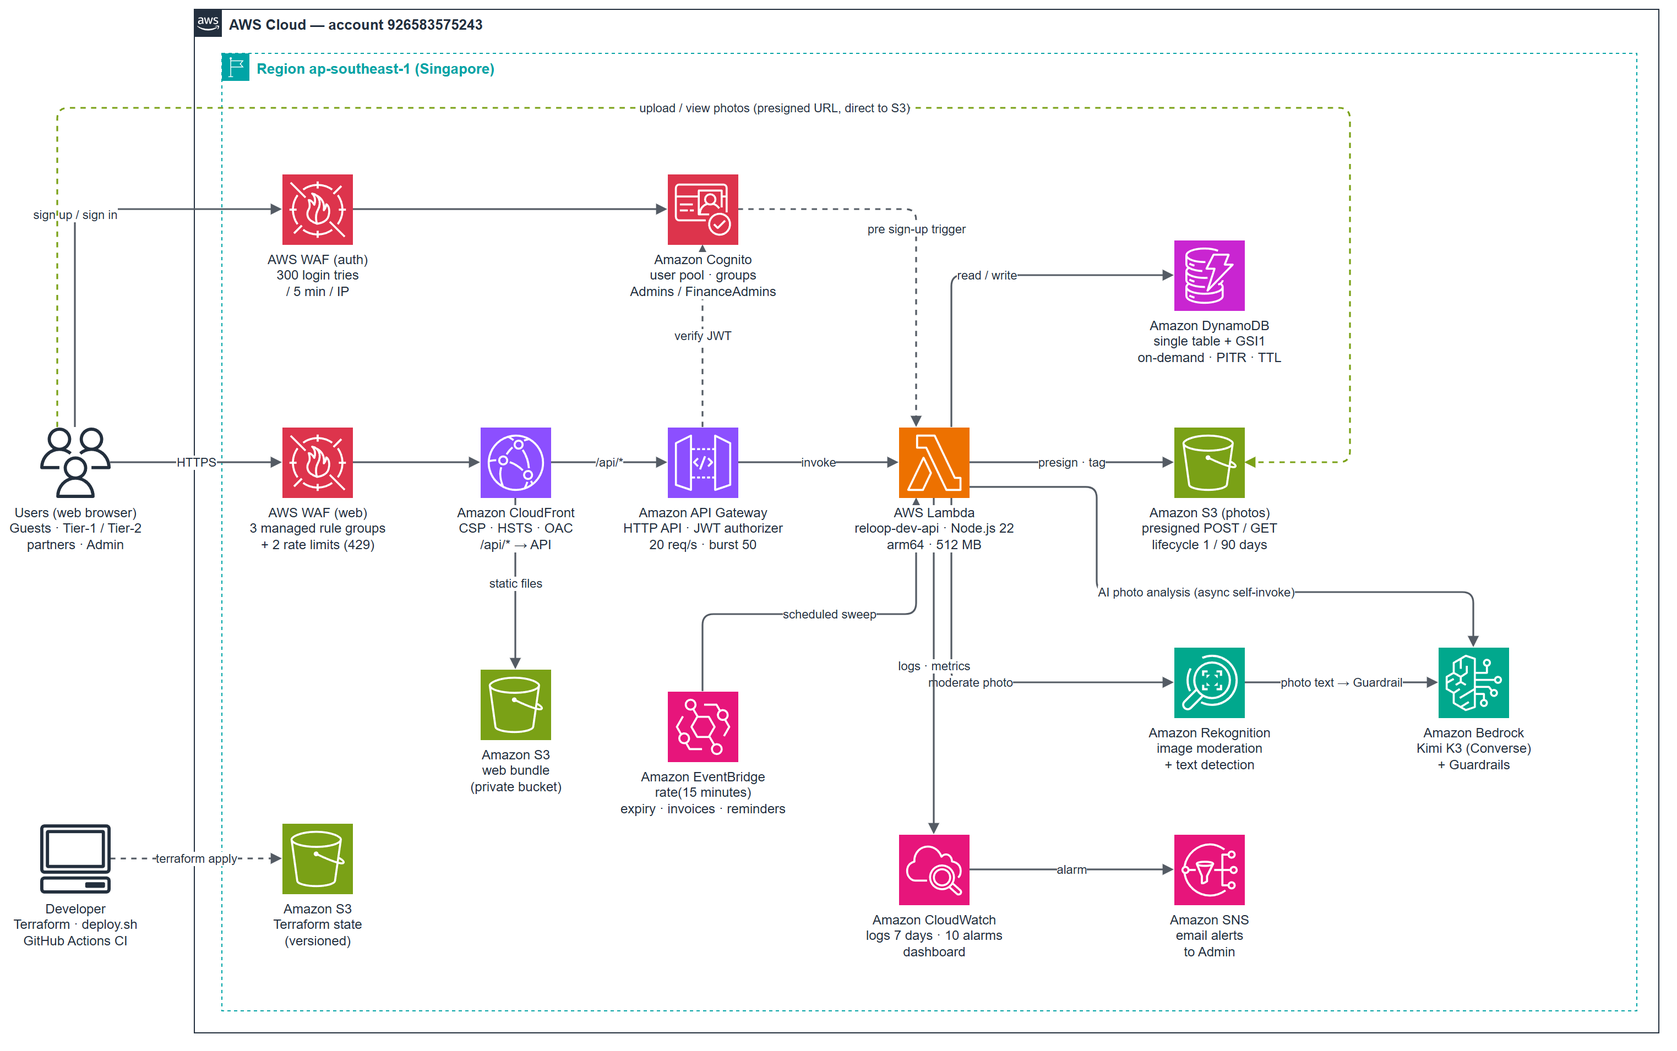
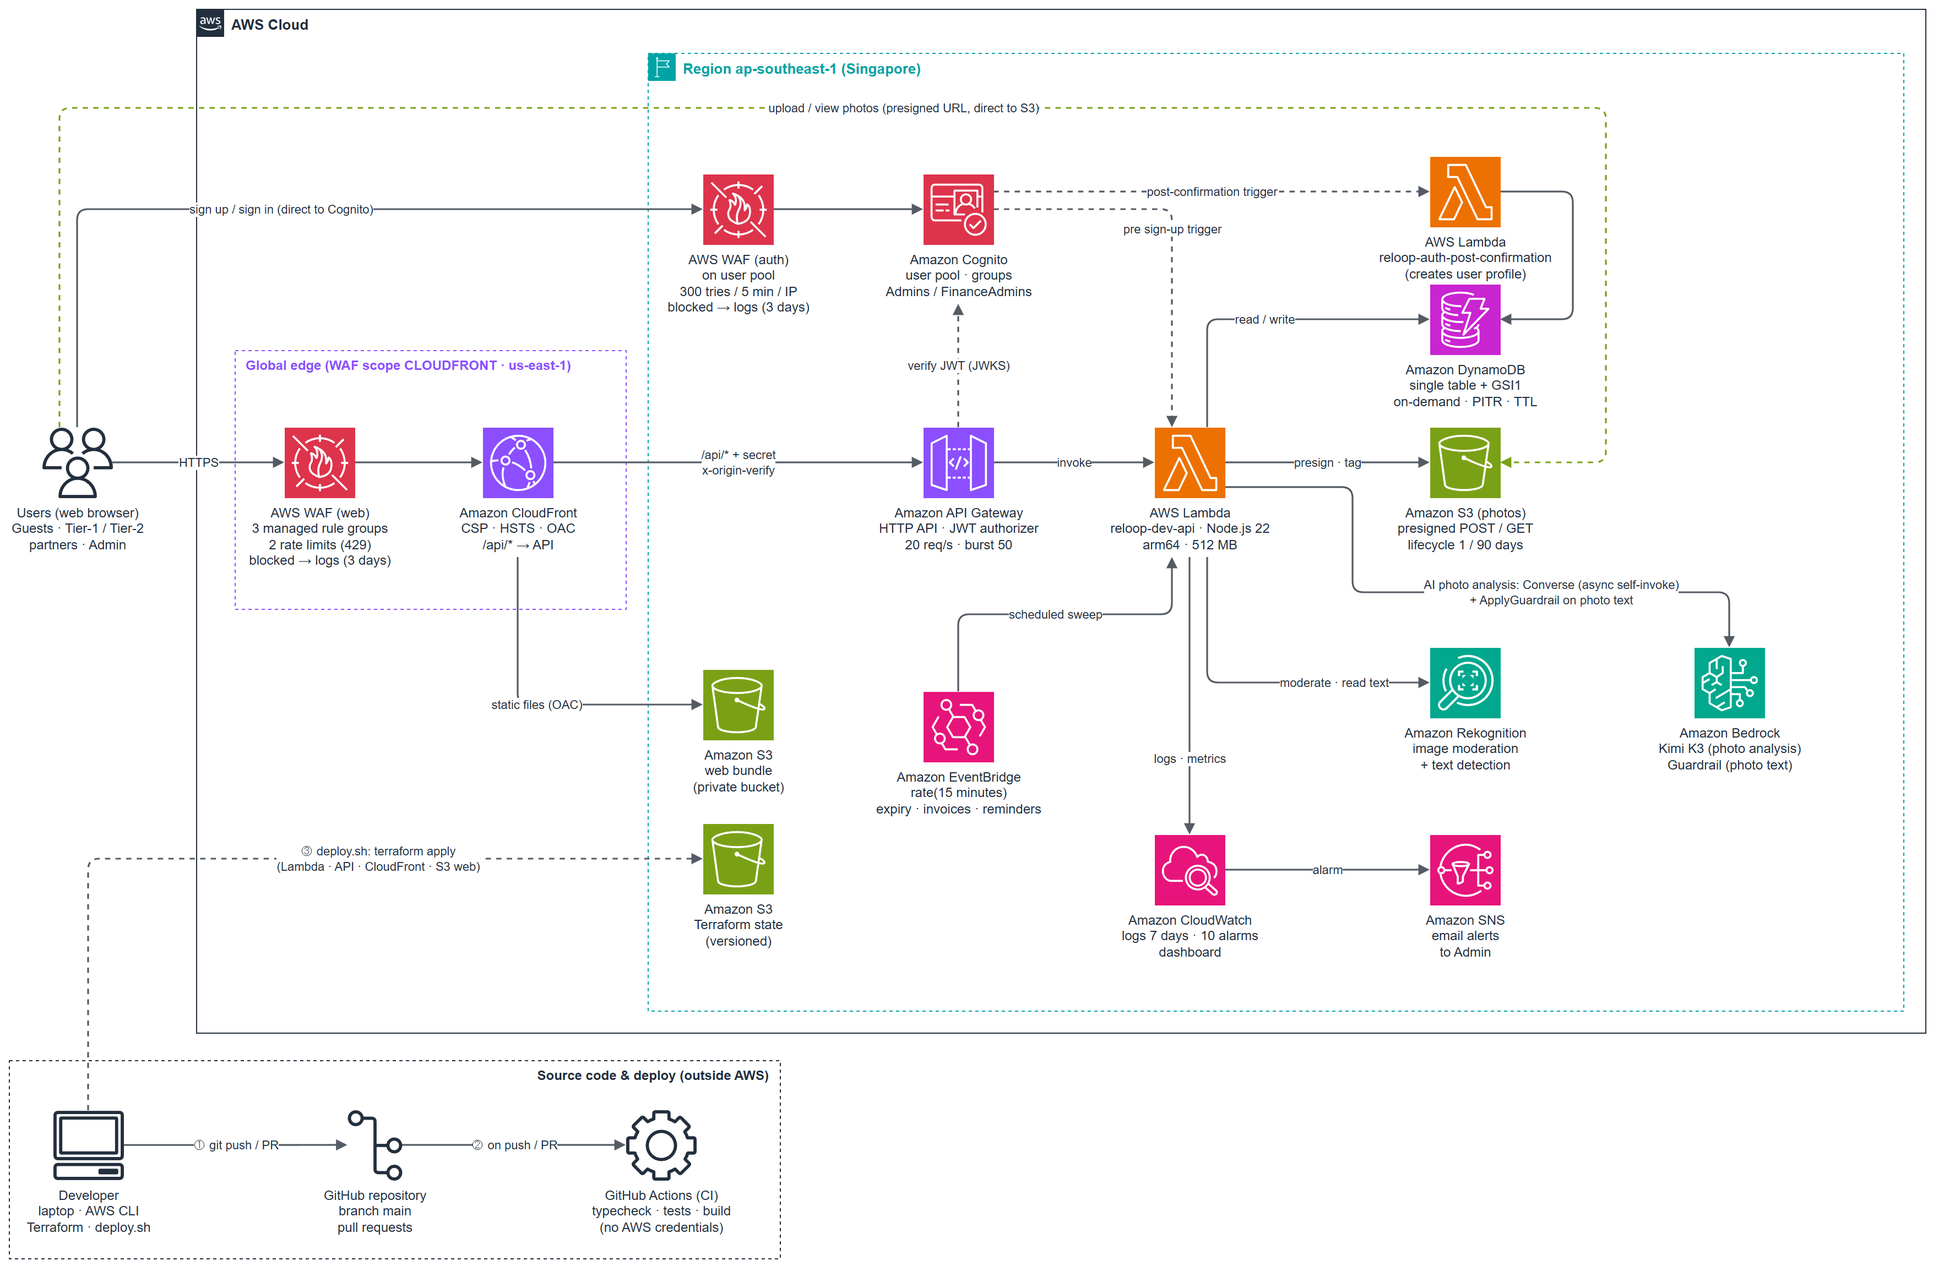
Proposal: new architecture diagrams (overview + detailed), CI/deploy flow, Cognito triggers, Bedrock Guardrail scope; add diagram scripts

diff --git a/diagram/make_architecture.py b/diagram/make_architecture.py
@@ -1,0 +1,217 @@
+"""Sinh sơ đồ kiến trúc ReLoop dạng draw.io (icon AWS chính thức, thư viện mxgraph.aws4).
+
+Chạy:     python diagram/make_architecture.py → static/images/2-Proposal/reloop-architecture.drawio (mở được bằng draw.io)
+Xuất PNG: node diagram/export_png.mjs        → static/images/2-Proposal/reloop-architecture.png (viewer draw.io trong Chrome headless)
+Số liệu trên sơ đồ lấy từ infra/*.tf ngày 2026-11-08 (bố cục sửa 2026-11-16: CloudFront/WAF web ra ngoài Region, thêm post-confirmation, x-origin-verify;
+2026-11-19: đường nối không cắt chữ dưới icon (exitDy/entryDy), Lambda gọi Bedrock trực tiếp (bỏ mũi tên Rekognition → Bedrock),
+bỏ số tài khoản, log WAF, khung Developer → GitHub → CI + đường deploy ③).
+"""
+import sys
+from pathlib import Path
+from xml.sax.saxutils import escape
+
+HERE = Path(__file__).parent.parent / 'static' / 'images' / '2-Proposal'  # nơi Hugo lấy ảnh
+# --simple: CÙNG bố cục, icon, đường nối; chỉ bớt chữ (dưới icon chỉ tên dịch vụ, đường nối không nhãn trừ số ① ② ③)
+# → reloop-architecture-simple.drawio, xuất PNG: node diagram/export_png.mjs reloop-architecture-simple
+SIMPLE = '--simple' in sys.argv
+NAME = 'reloop-architecture-simple' if SIMPLE else 'reloop-architecture'
+
+
+def pick(label: str, short: str | None) -> str:
+    """Bản gọn: dùng `short` nếu có, không thì dòng đầu (tên dịch vụ)."""
+    if not SIMPLE:
+        return label
+    return short or label.split('\n')[0]
+
+COLORS = {
+    'net': '#8C4FFF',  # Networking & Content Delivery
+    'compute': '#ED7100',
+    'db': '#C925D1',
+    'storage': '#7AA116',
+    'security': '#DD344C',
+    'ml': '#01A88D',
+    'mgmt': '#E7157B',  # Management & Governance / Application Integration
+}
+
+cells: list[str] = []
+_id = [10]
+
+
+def nid() -> str:
+    _id[0] += 1
+    return f'n{_id[0]}'
+
+
+def text(label: str) -> str:
+    """Nhãn nhiều dòng: draw.io (html=1) cần <br> thay cho xuống dòng."""
+    return escape(label.replace('\n', '<br>'))
+
+
+def node(x, y, style, label, size=64):
+    i = nid()
+    cells.append(
+        f'<mxCell id="{i}" value="{text(label)}" style="{style}" vertex="1" parent="1">'
+        f'<mxGeometry x="{x}" y="{y}" width="{size}" height="{size}" as="geometry"/></mxCell>'
+    )
+    return i
+
+
+BASE = ('sketch=0;outlineConnect=0;fontColor=#232F3E;gradientColor=none;dashed=0;verticalLabelPosition=bottom;'
+        'verticalAlign=top;align=center;html=1;fontSize=12;fontStyle=0;aspect=fixed;labelBackgroundColor=#ffffff;')
+
+
+def icon(x, y, res, cat, label, short=None):
+    return node(x, y, BASE + f'strokeColor=#ffffff;shape=mxgraph.aws4.resourceIcon;resIcon=mxgraph.aws4.{res};fillColor={COLORS[cat]};', pick(label, short))
+
+
+def plain_icon(x, y, shape, label, short=None):
+    return node(x, y, BASE + f'fillColor=#232F3D;strokeColor=none;shape=mxgraph.aws4.{shape};', pick(label, short))
+
+
+def group(x, y, w, h, gr, label, stroke, dashed=False):
+    i = nid()
+    style = (
+        'outlineConnect=0;gradientColor=none;html=1;whiteSpace=wrap;fontSize=13;fontStyle=1;container=0;pointerEvents=0;'
+        f'collapsible=0;recursiveResize=0;shape=mxgraph.aws4.group;grIcon=mxgraph.aws4.{gr};strokeColor={stroke};fillColor=none;'
+        f'verticalAlign=top;align=left;spacingLeft=30;fontColor={stroke};dashed={1 if dashed else 0};'
+    )
+    cells.append(
+        f'<mxCell id="{i}" value="{text(label)}" style="{style}" vertex="1" parent="1">'
+        f'<mxGeometry x="{x}" y="{y}" width="{w}" height="{h}" as="geometry"/></mxCell>'
+    )
+
+
+def box(x, y, w, h, label, stroke, align='left', short=None, valign='top'):
+    """Khung nét đứt không icon (vùng biên toàn cầu, khung mã nguồn + deploy, cụm chức năng của bản gọn)."""
+    label = pick(label, short)
+    i = nid()
+    style = (f'rounded=0;whiteSpace=wrap;html=1;fillColor=none;dashed=1;strokeColor={stroke};fontColor={stroke};'
+             f'fontSize=12;fontStyle=1;verticalAlign={valign};align={align};spacingLeft=8;spacingRight=8;spacingBottom=2;'
+             'mxgraph.aws4.group;')
+    cells.append(
+        f'<mxCell id="{i}" value="{text(label)}" style="{style}" vertex="1" parent="1">'
+        f'<mxGeometry x="{x}" y="{y}" width="{w}" height="{h}" as="geometry"/></mxCell>'
+    )
+
+
+# chiều cao nhãn dưới icon (bản đủ 3 dòng, bản gọn ≤ 2 dòng): đường ra / vào đáy icon bắt đầu dưới chữ, không cắt chữ
+LABEL_GAP = 38 if SIMPLE else 54
+
+
+def edge(src, dst, label='', dashed=False, points=(), exit_=None, entry=None, color='#545B64',
+         exit_dy=0, entry_dy=0, label_pos=0):
+    """label_pos: vị trí nhãn dọc đường nối, -1 (đầu) … 0 (giữa) … 1 (cuối)."""
+    if SIMPLE:
+        label = label[0] if label[:1] in ('①', '②', '③') else ''  # bản gọn: chỉ giữ số bước
+    i = nid()
+    style = (f'edgeStyle=orthogonalEdgeStyle;html=1;rounded=1;endArrow=block;endFill=1;strokeWidth=1.6;strokeColor={color};'
+             'fontSize=11;fontColor=#232F3E;labelBackgroundColor=#ffffff;')
+    if SIMPLE and label:
+        style = style.replace('fontSize=11;', 'fontSize=20;')  # số ① ② ③ đứng riêng: cỡ 11 bé không đọc được
+    if dashed:
+        style += 'dashed=1;'
+    if exit_:
+        style += f'exitX={exit_[0]};exitY={exit_[1]};exitDx=0;exitDy={exit_dy};exitPerimeter=0;'
+    if entry:
+        style += f'entryX={entry[0]};entryY={entry[1]};entryDx=0;entryDy={entry_dy};entryPerimeter=0;'
+    pts = ''.join(f'<mxPoint x="{px}" y="{py}"/>' for px, py in points)
+    arr = f'<Array as="points">{pts}</Array>' if pts else ''
+    cells.append(
+        f'<mxCell id="{i}" value="{text(label)}" style="{style}" edge="1" parent="1" source="{src}" target="{dst}">'
+        f'<mxGeometry x="{label_pos}" relative="1" as="geometry">{arr}</mxGeometry></mxCell>'
+    )
+
+
+# ---- Khung. CloudFront + WAF web là dịch vụ toàn cầu (web ACL scope CLOUDFRONT tạo ở us-east-1) → nằm ngoài khung Region.
+group(190, 20, 1570, 930, 'group_aws_cloud_alt', 'AWS Cloud', '#232F3E')  # không ghi số tài khoản: báo cáo đăng công khai
+group(600, 60, 1140, 870, 'group_region', 'Region ap-southeast-1 (Singapore)', '#00A4A6', dashed=True)
+box(225, 330, 355, 235, 'Global edge (WAF scope CLOUDFRONT · us-east-1)', COLORS['net'], short='Global edge')
+# Mã nguồn + deploy nằm ngoài AWS: GitHub Actions chỉ kiểm code (không có quyền AWS); deploy chạy infra/deploy.sh từ máy dev.
+box(20, 975, 700, 180, 'Source code & deploy (outside AWS)', '#232F3E', align='right')  # chữ bên phải: đường ③ đi lên ở bên trái
+if SIMPLE:
+    # Bản gọn: khung nhóm theo chức năng (PO 19/11, theo ảnh mẫu) — KHÔNG dời icon / đường nối, chỉ vẽ khung quanh vị trí sẵn có.
+    # Tên khung đặt ở chỗ không có đường nối đi qua (vài khung để tên ở đáy / bên phải vì vậy).
+    box(625, 140, 795, 116, 'Sign-up & sign-in', COLORS['security'])
+    box(810, 380, 340, 140, 'API backend', COLORS['compute'], valign='bottom')
+    box(1270, 264, 150, 246, 'Data storage', COLORS['db'], valign='bottom')
+    box(1270, 560, 370, 140, 'AI processing', COLORS['ml'])
+    box(1000, 730, 420, 140, 'Monitoring & alerts', COLORS['mgmt'], align='right')
+
+# ---- Người dùng / người phát triển (ngoài AWS)
+users = plain_icon(50, 400, 'users', 'Users (web browser)\nGuests · Tier-1 / Tier-2\npartners · Admin')
+dev = plain_icon(60, 1020, 'client', 'Developer\nlaptop · AWS CLI\nTerraform · deploy.sh')
+repo = plain_icon(320, 1020, 'git_repository', 'GitHub repository\nbranch main\npull requests')
+ci = plain_icon(580, 1020, 'gear', 'GitHub Actions (CI)\ntypecheck · tests · build\n(no AWS credentials)')
+
+# ---- Biên (edge, toàn cầu)
+waf_web = icon(270, 400, 'waf', 'security', 'AWS WAF (web)\n3 managed rule groups\n2 rate limits (429)\nblocked → logs (3 days)')
+cf = icon(450, 400, 'cloudfront', 'net', 'Amazon CloudFront\nCSP · HSTS · OAC\n/api/* → API')
+
+# ---- Region: đăng nhập
+waf_auth = icon(650, 170, 'waf', 'security', 'AWS WAF (auth)\non user pool\n300 tries / 5 min / IP\nblocked → logs (3 days)')
+cognito = icon(850, 170, 'cognito', 'security', 'Amazon Cognito\nuser pool · groups\nAdmins / FinanceAdmins')
+postconf = icon(1310, 154, 'lambda', 'compute', 'AWS Lambda\nreloop-auth-post-confirmation\n(creates user profile)')
+
+# ---- Region: web tĩnh, API + xử lý
+s3web = icon(650, 620, 's3', 'storage', 'Amazon S3\nweb bundle\n(private bucket)', short='Amazon S3\n(website)')
+apigw = icon(850, 400, 'api_gateway', 'net', 'Amazon API Gateway\nHTTP API · JWT authorizer\n20 req/s · burst 50')
+lam = icon(1060, 400, 'lambda', 'compute', 'AWS Lambda\nreloop-dev-api · Node.js 22\narm64 · 512 MB')
+evb = icon(850, 640, 'eventbridge', 'mgmt', 'Amazon EventBridge\nrate(15 minutes)\nexpiry · invoices · reminders')
+
+# ---- Dữ liệu + AI
+ddb = icon(1310, 270, 'dynamodb', 'db', 'Amazon DynamoDB\nsingle table + GSI1\non-demand · PITR · TTL')
+s3img = icon(1310, 400, 's3', 'storage', 'Amazon S3 (photos)\npresigned POST / GET\nlifecycle 1 / 90 days')
+rek = icon(1310, 600, 'rekognition', 'ml', 'Amazon Rekognition\nimage moderation\n+ text detection')
+bed = icon(1550, 600, 'bedrock', 'ml', 'Amazon Bedrock\nKimi K3 (photo analysis)\nGuardrail (photo text)')
+
+# ---- Giám sát + IaC
+cw = icon(1060, 770, 'cloudwatch_2', 'mgmt', 'Amazon CloudWatch\nlogs 7 days · 10 alarms\ndashboard')
+sns = icon(1310, 770, 'sns', 'mgmt', 'Amazon SNS\nemail alerts\nto Admin')
+tfstate = icon(650, 760, 's3', 'storage', 'Amazon S3\nTerraform state\n(versioned)', short='Amazon S3\n(Terraform state)')
+
+# ---- Luồng chính
+edge(users, waf_web, 'HTTPS')
+edge(waf_web, cf)
+edge(cf, s3web, 'static files (OAC)', exit_=(0.5, 1), exit_dy=LABEL_GAP, entry=(0, 0.5), points=[(482, 652)])
+edge(cf, apigw, '/api/* + secret\nx-origin-verify')
+edge(apigw, lam, 'invoke')
+edge(lam, ddb, 'read / write', exit_=(0.75, 0), entry=(0, 0.5), points=[(1108, 302)])
+edge(lam, s3img, 'presign · tag')
+edge(lam, rek, 'moderate · read text', exit_=(0.75, 1), exit_dy=LABEL_GAP, entry=(0, 0.5), points=[(1108, 632)],
+     label_pos=0.45)
+# Lambda gọi Bedrock trực tiếp (Rekognition không gọi Bedrock): Converse ở lượt chạy nền (Lambda tự gọi lại chính nó,
+# InvocationType Event) + ApplyGuardrail cho chữ Rekognition đọc từ ảnh (backend/src/storage/textScreener.ts).
+edge(lam, bed, 'AI photo analysis: Converse (async self-invoke)\n+ ApplyGuardrail on photo text', exit_=(1, 0.85),
+     entry=(0.5, 0), points=[(1240, 454), (1240, 550), (1582, 550)], label_pos=0.3)
+edge(evb, lam, 'scheduled sweep', exit_=(0.5, 0), entry=(0.25, 1), entry_dy=LABEL_GAP, points=[(882, 570), (1076, 570)])
+edge(lam, cw, 'logs · metrics', exit_=(0.5, 1), exit_dy=LABEL_GAP, entry=(0.5, 0), label_pos=0.45)
+edge(cw, sns, 'alarm')
+
+# ---- Đăng nhập + ảnh đi thẳng từ trình duyệt (không qua CloudFront / API Gateway)
+edge(users, waf_auth, 'sign up / sign in (direct to Cognito)', exit_=(0.5, 0), entry=(0, 0.5), points=[(82, 202)])
+edge(waf_auth, cognito)
+edge(apigw, cognito, 'verify JWT (JWKS)', dashed=True, exit_=(0.5, 0), entry=(0.5, 1), entry_dy=LABEL_GAP)
+edge(cognito, lam, 'pre sign-up trigger', dashed=True, exit_=(1, 0.5), entry=(0.25, 0), points=[(1076, 202)])
+edge(cognito, postconf, 'post-confirmation trigger', dashed=True, exit_=(1, 0.25), entry=(0, 0.5))
+edge(postconf, ddb, '', exit_=(1, 0.5), entry=(1, 0.5), points=[(1440, 186), (1440, 302)])
+edge(users, s3img, 'upload / view photos (presigned URL, direct to S3)', dashed=True, exit_=(0.25, 0), entry=(1, 0.5),
+     points=[(66, 110), (1470, 110), (1470, 432)], color='#7AA116')
+
+# ---- Mã nguồn + deploy (đánh số theo thứ tự)
+edge(dev, repo, '① git push / PR')
+edge(repo, ci, '② on push / PR')
+edge(dev, tfstate, '③ deploy.sh: terraform apply\n(Lambda · API · CloudFront · S3 web)', dashed=True,
+     exit_=(0.5, 0), entry=(0, 0.5), points=[(92, 792)], label_pos=0.25)
+
+groups = [c for c in cells if 'mxgraph.aws4.group;' in c]
+edges = [c for c in cells if 'edge="1"' in c]
+vertices = [c for c in cells if c not in groups and c not in edges]
+
+xml = (
+    '<mxfile host="reloop-proposal"><diagram id="reloop" name="ReLoop architecture">'
+    '<mxGraphModel dx="1600" dy="960" grid="0" gridSize="10" guides="1" tooltips="1" connect="1" arrows="1" fold="1" '
+    'page="1" pageScale="1" pageWidth="1800" pageHeight="1170" background="#ffffff" math="0" shadow="0"><root>'
+    '<mxCell id="0"/><mxCell id="1" parent="0"/>' + ''.join(groups + edges + vertices) + '</root></mxGraphModel></diagram></mxfile>'
+)
+(HERE / f'{NAME}.drawio').write_text(xml, encoding='utf-8')
+print('ok', len(cells), 'cells')

diff --git a/content/2-Proposal/_index.vi.md b/content/2-Proposal/_index.vi.md
@@ -59,10 +59,15 @@ ReLoop hoàn toàn serverless, nằm trong một region (ap-southeast-1):
 - Đăng ký và đăng nhập đi thẳng từ trình duyệt tới Cognito, có WAF thứ hai bảo vệ.
 - Log và số liệu nghiệp vụ đổ về CloudWatch; khi có cảnh báo, SNS gửi email cho Admin.
 - Toàn bộ hạ tầng viết bằng Terraform, state lưu trong bucket S3 có versioning.
+- Code đẩy lên GitHub (① push / pull request), GitHub Actions chạy typecheck, test và build web (②). CI không có quyền AWS. Việc deploy chạy `infra/deploy.sh` từ máy của developer (③: `terraform apply`, sau đó upload web).
+
+![Tổng quan kiến trúc ReLoop](/images/2-Proposal/reloop-architecture-simple.png)
+
+**Sơ đồ chi tiết** (thông số, giới hạn và luồng cụ thể):
 
 ![Kiến trúc ReLoop](/images/2-Proposal/reloop-architecture.png)
 
-*File gốc sơ đồ: `static/images/2-Proposal/reloop-architecture.drawio` (sinh bằng `diagram/make_architecture.py`).*
+*File gốc sơ đồ: `static/images/2-Proposal/reloop-architecture-simple.drawio` và `reloop-architecture.drawio` (cả hai sinh bằng `diagram/make_architecture.py`; bản tổng quan thêm `--simple`: cùng bố cục, ít chữ).*
 
 #### Dịch vụ AWS sử dụng
 - **Amazon CloudFront:** phục vụ web và chuyển `/api/*` tới API Gateway. Gắn header CSP, HSTS, X-Frame-Options và trả 404 thật khi thiếu file tĩnh.
@@ -73,9 +78,9 @@ ReLoop hoàn toàn serverless, nằm trong một region (ap-southeast-1):
 - **Amazon API Gateway (HTTP API):** kiểm JWT trên mọi route riêng tư; giới hạn 20 request/giây, burst 50.
 - **AWS Lambda:** `reloop-dev-api`, Node.js 22 trên arm64 (Graviton), 512 MB. Chạy API, worker AI/ghép tin bất đồng bộ, job định kỳ và trigger pre sign-up của Cognito. Thời gian chạy trung bình 144 ms; giới hạn chạy song song 1.000.
 - **Amazon DynamoDB:** một bảng on-demand với PK/SK và GSI1, bật PITR và TTL (thông báo tự xóa sau 90 ngày). Hiện có khoảng 5.600 bản ghi (2,4 MB).
-- **Amazon Cognito:** user pool xác minh qua email, có group Admins, FinanceAdmins, Partners, Owners. Hiện có 14 người dùng.
+- **Amazon Cognito:** user pool xác minh qua email, có group Admins, FinanceAdmins, Partners, Owners. Trigger pre sign-up gọi `reloop-dev-api`; trigger post-confirmation gọi Lambda `reloop-auth-post-confirmation` để tạo hồ sơ người dùng trong DynamoDB. Trình duyệt gọi thẳng Cognito, không qua CloudFront hay API Gateway; API Gateway chỉ kiểm chữ ký JWT bằng khóa công khai (JWKS) của user pool. Hiện có 14 người dùng.
 - **Amazon Rekognition:** gắn nhãn kiểm duyệt cho mọi ảnh (từ chối ảnh nhạy cảm, ca nghi ngờ chuyển Admin) và đọc chữ trong ảnh.
-- **Amazon Bedrock:** Kimi K3 qua Converse API có tool choice, trả JSON có cấu trúc. Guardrail (tier Standard) lọc đầu vào/đầu ra của AI và chữ đọc được trong ảnh. Mỗi người dùng tối đa 20 lượt phân tích/ngày.
+- **Amazon Bedrock:** Kimi K3 qua Converse API có tool choice, trả JSON có cấu trúc. Guardrail (tier Standard) lọc chữ mà Rekognition đọc được trong ảnh (ApplyGuardrail). Lượt gọi Kimi không đi kèm Guardrail vì Kimi không hỗ trợ, nên kết quả được kiểm bằng schema JSON bắt buộc và bước validate ở backend. Mỗi người dùng tối đa 20 lượt phân tích/ngày.
 - **Amazon EventBridge:** 1 rule chạy mỗi 15 phút để gọi job quét nền.
 - **Amazon CloudWatch:** log giữ 7 ngày, số liệu nghiệp vụ tự định nghĩa, 1 dashboard và 10 alarm (Lambda lỗi/throttle, API 5xx, p95 > 2 giây, lỗi AI/job, chữ lạ trong ảnh, có khiếu nại mới).
 - **Amazon SNS:** gửi email cảnh báo cho Admin.

diff --git a/content/2-Proposal/_index.md b/content/2-Proposal/_index.md
@@ -59,10 +59,15 @@ ReLoop is fully serverless in one region (ap-southeast-1):
 - Sign-up and sign-in go directly from the browser to Cognito, protected by a second WAF.
 - Logs and custom business metrics flow to CloudWatch, and alarms are sent to the Admin by SNS email.
 - All infrastructure is defined in Terraform, with state stored in a versioned S3 bucket.
+- Code goes to GitHub (① push / pull request), and GitHub Actions runs typecheck, tests and the web build (②). The CI has no AWS credentials. Deploys run `infra/deploy.sh` from a developer machine (③: `terraform apply`, then the web upload).
+
+![ReLoop architecture overview](/images/2-Proposal/reloop-architecture-simple.png)
+
+**Detailed diagram** (sizes, limits and the exact flows):
 
 ![ReLoop architecture](/images/2-Proposal/reloop-architecture.png)
 
-*Diagram source: `static/images/2-Proposal/reloop-architecture.drawio` (generated by `diagram/make_architecture.py`).*
+*Diagram sources: `static/images/2-Proposal/reloop-architecture-simple.drawio` and `reloop-architecture.drawio` (both generated by `diagram/make_architecture.py`; the overview uses `--simple`: same layout, fewer labels).*
 
 #### AWS Services Used
 - **Amazon CloudFront:** serves the web app and routes `/api/*` to API Gateway. It adds CSP, HSTS and X-Frame-Options headers and returns a real 404 for missing static files.
@@ -73,9 +78,9 @@ ReLoop is fully serverless in one region (ap-southeast-1):
 - **Amazon API Gateway (HTTP API):** JWT authorizer on every private route; throttled at 20 requests/s with a burst of 50.
 - **AWS Lambda:** `reloop-dev-api`, Node.js 22 on arm64 (Graviton) with 512 MB. It runs the API, the async AI/matching worker, the scheduled jobs and the Cognito pre sign-up trigger. Average duration is 144 ms; concurrency quota is 1,000.
 - **Amazon DynamoDB:** one on-demand table with PK/SK and GSI1, PITR and TTL (notifications expire after 90 days). It holds about 5,600 items (2.4 MB).
-- **Amazon Cognito:** user pool with email verification and groups Admins, FinanceAdmins, Partners and Owners. It has 14 users.
+- **Amazon Cognito:** user pool with email verification and groups Admins, FinanceAdmins, Partners and Owners. The pre sign-up trigger calls `reloop-dev-api`; the post-confirmation trigger calls the `reloop-auth-post-confirmation` Lambda, which creates the user profile in DynamoDB. The browser talks to Cognito directly, not through CloudFront or API Gateway; API Gateway only checks JWT signatures against the user pool JWKS. It has 14 users.
 - **Amazon Rekognition:** moderation labels on every photo (rejects explicit content; borderline cases go to Admin) and text detection.
-- **Amazon Bedrock:** Kimi K3 through the Converse API with tool choice, returning structured JSON. A Guardrail (Standard tier) screens AI input/output and text found in photos. Each user is capped at 20 analyses per day.
+- **Amazon Bedrock:** Kimi K3 through the Converse API with tool choice, returning structured JSON. A Guardrail (Standard tier) screens the text that Rekognition reads from photos (ApplyGuardrail). The Kimi call itself runs without a Guardrail, because Kimi does not support one, so its output is checked by a required JSON schema and backend validation. Each user is capped at 20 analyses per day.
 - **Amazon EventBridge:** 1 rule every 15 minutes that runs the background sweep.
 - **Amazon CloudWatch:** logs kept 7 days, custom business metrics, 1 dashboard and 10 alarms (Lambda errors/throttles, API 5xx, p95 > 2 s, AI/job failures, unusual photo text, new disputes).
 - **Amazon SNS:** sends alarm emails to Admin.
